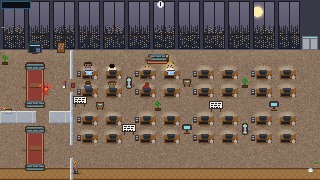
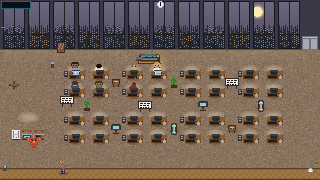
fix(gen): render the VIBING poster at the live seed (11), not hero_still's default 3, so the office layout doesn't pop when the live canvas covers the poster (#468 review HIGH)
hero_still gains --seed (default 3, keeps hero-wide.png byte-identical); gen-media threads job.seed through; the vibing-poster job sets seed:11 to match Showcase's VIBING_SEED. Regenerated the poster.

diff --git a/crates/pixtuoid-web/examples/hero_still.rs b/crates/pixtuoid-web/examples/hero_still.rs
@@ -33,7 +33,7 @@ use chrono::TimeZone;
 use pixtuoid_web::Office;
 
 const USAGE: &str = "usage: hero_still <out.png> [--width W] [--height H] \
-(--t0-ms EPOCH_MS | --hour 0-23) [--advance-ms MS] [--weather NAME] \
+(--t0-ms EPOCH_MS | --hour 0-23) [--advance-ms MS] [--weather NAME] [--seed N] \
 (<out.png> and the flags may appear in any order)";
 
 // Recognized flags, each followed by one value token — used to skip past
@@ -47,6 +47,7 @@ const FLAGS_WITH_VALUE: &[&str] = &[
     "--advance-ms",
     "--hour",
     "--weather",
+    "--seed",
 ];
 
 fn positional_out(args: &[String]) -> Option<&str> {
@@ -73,6 +74,11 @@ const DEFAULT_HEIGHT: u32 = 180;
 // doc) — a reasonable default so an `--hour` render also shows a seated cast
 // rather than an empty office at t0.
 const DEFAULT_ADVANCE_MS: u64 = 100_000;
+// Layout seed. The hero backdrop (OfficeBackdrop.astro) is seed 3, so the
+// default keeps `hero-wide.png` byte-identical; a caller passes `--seed` to
+// match a DIFFERENT live canvas (e.g. the VIBING channel is seed 11) so its
+// poster shows the same office layout the live office will paint.
+const DEFAULT_SEED: u32 = 3;
 
 // A fixed reference calendar date (arbitrary but FIXED — never "today") used
 // to turn `--hour` into a deterministic `t0_ms`. Only the hour-of-day drives
@@ -109,6 +115,7 @@ fn main() -> ExitCode {
     let width: u32 = arg(&args, "--width").unwrap_or(DEFAULT_WIDTH);
     let height: u32 = arg(&args, "--height").unwrap_or(DEFAULT_HEIGHT);
     let advance_ms: u64 = arg(&args, "--advance-ms").unwrap_or(DEFAULT_ADVANCE_MS);
+    let seed: u32 = arg(&args, "--seed").unwrap_or(DEFAULT_SEED);
     let weather: Option<String> = arg(&args, "--weather");
 
     let t0_ms: f64 = match (arg::<u64>(&args, "--t0-ms"), arg::<u32>(&args, "--hour")) {
@@ -126,7 +133,7 @@ fn main() -> ExitCode {
         }
     };
 
-    let mut office = match Office::new(3) {
+    let mut office = match Office::new(seed) {
         Ok(o) => o,
         Err(_) => {
             eprintln!("embedded sprite pack failed to parse (build bug)");

diff --git a/scripts/gen-media.py b/scripts/gen-media.py
@@ -260,6 +260,12 @@ def run_wasm_still(job, out_dirs, work, intermediates):
         extra += ["--hour", str(job["hour"])]
     if "weather" in job:
         extra += ["--weather", str(job["weather"])]
+    # Layout seed: match the LIVE canvas this poster falls back for (the VIBING
+    # channel is seed 11), else the poster's office layout pops when the live
+    # canvas paints over it. hero-wide sets no seed, so hero_still defaults to
+    # the backdrop's seed 3 (byte-identical).
+    if "seed" in job:
+        extra += ["--seed", str(job["seed"])]
     for d in out_dirs:
         subprocess.run(
             [str(ROOT / "target/release/examples/hero_still"),
